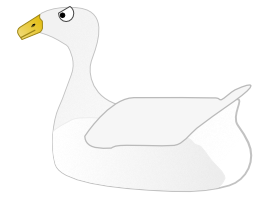
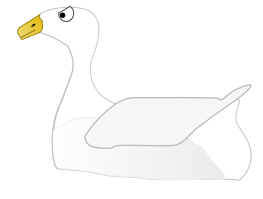
made the pond lemoner

diff --git a/apps/goosepond/views/index.py b/apps/goosepond/views/index.py
@@ -4,7 +4,7 @@ from django.shortcuts import render
 
 GEESE = [
     {"url": "https://google.com", "flipped": True, "image": "images/pilgrim_goose.png"}, 
-    {"url": "https://yahoo.com", "flipped": False, "image": "images/embden_goose.png"}, 
+    {"url": "https://lemonsaur.us", "flipped": False, "image": "images/lemon-duck.png"}, 
     {"url": "/therapy", "flipped": True, "image": "images/therapy_goose.png"},
     {"url": "https://bing.com", "flipped": False, "image": "images/embden_goose.png"},
 ]
